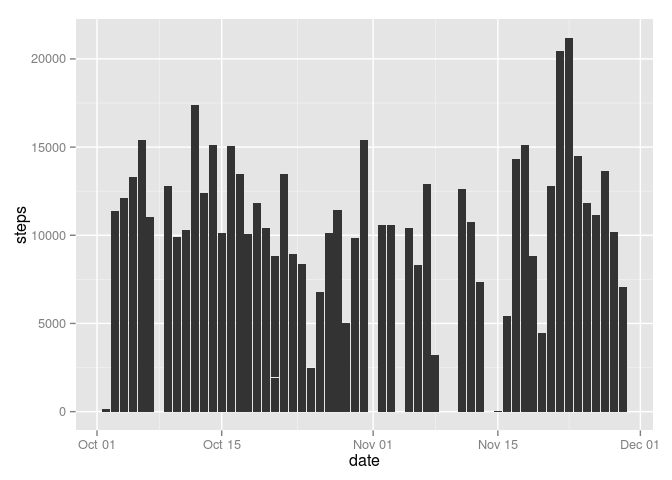
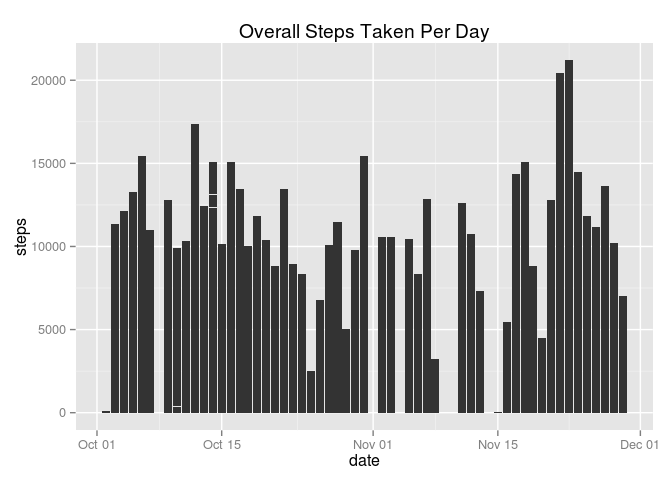
More questions answered

diff --git a/PA1.html b/PA1.html
@@ -95,22 +95,63 @@ data &lt;- read.csv(&quot;./data/activity.csv&quot;)</code></pre>
 ##  $ steps   : int  NA NA NA NA NA NA NA NA NA NA ...
 ##  $ date    : Factor w/ 61 levels &quot;2012-10-01&quot;,&quot;2012-10-02&quot;,..: 1 1 1 1 1 1 1 1 1 1 ...
 ##  $ interval: int  0 5 10 15 20 25 30 35 40 45 ...</code></pre>
-<p>That “date” variable should be in the Date class to make life easier for everyone. I prefer dplyr’s mutate function because it makes me feel like I’m creating a new X-men character who has the power to report dates accurately.</p>
+<p>That “date” variable should be in the Date class to make life easier for everyone. I like the transform function because it makes me feel like I’m creating a new Transformers character who has the power to report dates accurately.</p>
 <pre class="r"><code>library(dplyr)
 
-data &lt;- data %&gt;% mutate(date = as.Date(date))</code></pre>
+data &lt;- tbl_df(data)
+
+data &lt;- data %&gt;% transform(date = as.Date(date))</code></pre>
 </div>
 </div>
 <div id="what-is-mean-total-number-of-steps-taken-per-day" class="section level2">
 <h2>What is mean total number of steps taken per day?</h2>
-<p>Let’s create a plot of the overall steps taken per day and then find our mean and median.</p>
+<p>Let’s create a plot of the overall steps taken per day and then find our mean and median. Let’s create a plot with ggplot2 because that’s what all the cool kids use.</p>
 <pre class="r"><code>library(ggplot2)
 
-ggplot(data = data) + geom_bar(aes(date, steps), stat=&quot;identity&quot;)</code></pre>
[1 lines of base64/hex data omitted]
+ggplot(data = data) + 
+  geom_bar(aes(date, steps), stat=&quot;identity&quot;) +
+  ggtitle(&quot;Overall Steps Taken Per Day&quot;)</code></pre>
[1 lines of base64/hex data omitted]
+<p>Then let’s find the mean and median. We’ll have to sum the number of steps per date to find this. And let’s not forget there are a lot of NA values in our data, so we’ll use ‘na.rm’ to exclude them.</p>
+<pre class="r"><code># a new data frame to show our averages by date
+grouped &lt;- data %&gt;% 
+  group_by(date) %&gt;% 
+  summarize(sum = sum(steps, na.rm=TRUE),average=mean(steps, na.rm=TRUE), median= median(steps,na.rm=TRUE))
+
+# the mean of those averages
+avgsteps &lt;- mean(grouped$average, na.rm=TRUE)
+avgsteps</code></pre>
+<pre><code>## [1] 37.3826</code></pre>
+<pre class="r"><code># and the median
+medsteps &lt;- median(grouped$median, na.rm=TRUE)
+medsteps</code></pre>
+<pre><code>## [1] 0</code></pre>
+<p>What the mean and median tell me is that there isn’t a whole lot of activity during the day, even though the overall steps taken per day look impressive.</p>
 </div>
 <div id="what-is-the-average-daily-activity-pattern" class="section level2">
 <h2>What is the average daily activity pattern?</h2>
+<p>To explore what I rambled about in the above paragraph, let’s look at the daily activity pattern for each day using the five-minute interval identifier. For this, let’s create another data frame grouped by interval and summarize the mean across all days for that interval. Then let’s plot that sucker.</p>
+<pre class="r"><code>grouped2 &lt;- data %&gt;% group_by(interval) %&gt;% summarize(meansteps=mean(steps, na.rm=TRUE))
+
+# our plot
+ggplot(grouped2) + 
+  geom_line(aes(interval, meansteps)) + 
+  ggtitle(&quot;Average Activity During Five-Minute Intervals&quot;)</code></pre>
[1 lines of base64/hex data omitted]
+<p>It appears there is a spike of activity. Let’s figure out which interval that is.</p>
+<pre class="r"><code>grouped2 &lt;- grouped2 %&gt;% arrange(desc(meansteps))
+
+head(grouped2)</code></pre>
+<pre><code>## Source: local data frame [6 x 2]
+## 
+##   interval meansteps
+## 1      835  206.1698
+## 2      840  195.9245
+## 3      850  183.3962
+## 4      845  179.5660
+## 5      830  177.3019
+## 6      820  171.1509</code></pre>
+<p>That would be interval 835.</p>
 </div>
 <div id="imputing-missing-values" class="section level2">
 <h2>Imputing missing values</h2>

diff --git a/PA1.md b/PA1.md
@@ -50,32 +50,101 @@ str(data)
 ##  $ interval: int  0 5 10 15 20 25 30 35 40 45 ...
 ```
 
-That "date" variable should be in the Date class to make life easier for everyone. I prefer dplyr's mutate function because it makes me feel like I'm creating a new X-men character who has the power to report dates accurately.
+That "date" variable should be in the Date class to make life easier for everyone. I like the transform function because it makes me feel like I'm creating a new Transformers character who has the power to report dates accurately.
 
 
 ```r
 library(dplyr)
 
-data <- data %>% mutate(date = as.Date(date))
+data <- tbl_df(data)
+
+data <- data %>% transform(date = as.Date(date))
 ```
 
 
 ## What is mean total number of steps taken per day?
 
-Let's create a plot of the overall steps taken per day and then find our mean and median.
+Let's create a plot of the overall steps taken per day and then find our mean and median. Let's create a plot with ggplot2 because that's what all the cool kids use. 
 
 
 ```r
 library(ggplot2)
 
-ggplot(data = data) + geom_bar(aes(date, steps), stat="identity")
+ggplot(data = data) + 
+  geom_bar(aes(date, steps), stat="identity") +
+  ggtitle("Overall Steps Taken Per Day")
 ```
 
 ![](PA1_files/figure-html/unnamed-chunk-4-1.png) 
 
+Then let's find the mean and median. We'll have to sum the number of steps per date to find this. And let's not forget there are a lot of NA values in our data, so we'll use 'na.rm' to exclude them.
+
+
+```r
+# a new data frame to show our averages by date
+grouped <- data %>% 
+  group_by(date) %>% 
+  summarize(sum = sum(steps, na.rm=TRUE),average=mean(steps, na.rm=TRUE), median= median(steps,na.rm=TRUE))
+
+# the mean of those averages
+avgsteps <- mean(grouped$average, na.rm=TRUE)
+avgsteps
+```
+
+```
+## [1] 37.3826
+```
+
+```r
+# and the median
+medsteps <- median(grouped$median, na.rm=TRUE)
+medsteps
+```
+
+```
+## [1] 0
+```
+
+What the mean and median tell me is that there isn't a whole lot of activity during the day, even though the overall steps taken per day look impressive.
+
 ## What is the average daily activity pattern?
 
+To explore what I rambled about in the above paragraph, let's look at the daily activity pattern for each day using the five-minute interval identifier. For this, let's create another data frame grouped by interval and summarize the mean across all days for that interval. Then let's plot that sucker.
 
+
+```r
+grouped2 <- data %>% group_by(interval) %>% summarize(meansteps=mean(steps, na.rm=TRUE))
+
+# our plot
+ggplot(grouped2) + 
+  geom_line(aes(interval, meansteps)) + 
+  ggtitle("Average Activity During Five-Minute Intervals")
+```
+
+![](PA1_files/figure-html/unnamed-chunk-6-1.png) 
+
+It appears there is a spike of activity. Let's figure out which interval that is.
+
+
+```r
+grouped2 <- grouped2 %>% arrange(desc(meansteps))
+
+head(grouped2)
+```
+
+```
+## Source: local data frame [6 x 2]
+## 
+##   interval meansteps
+## 1      835  206.1698
+## 2      840  195.9245
+## 3      850  183.3962
+## 4      845  179.5660
+## 5      830  177.3019
+## 6      820  171.1509
+```
+
+That would be interval 835.
 
 ## Imputing missing values
 
